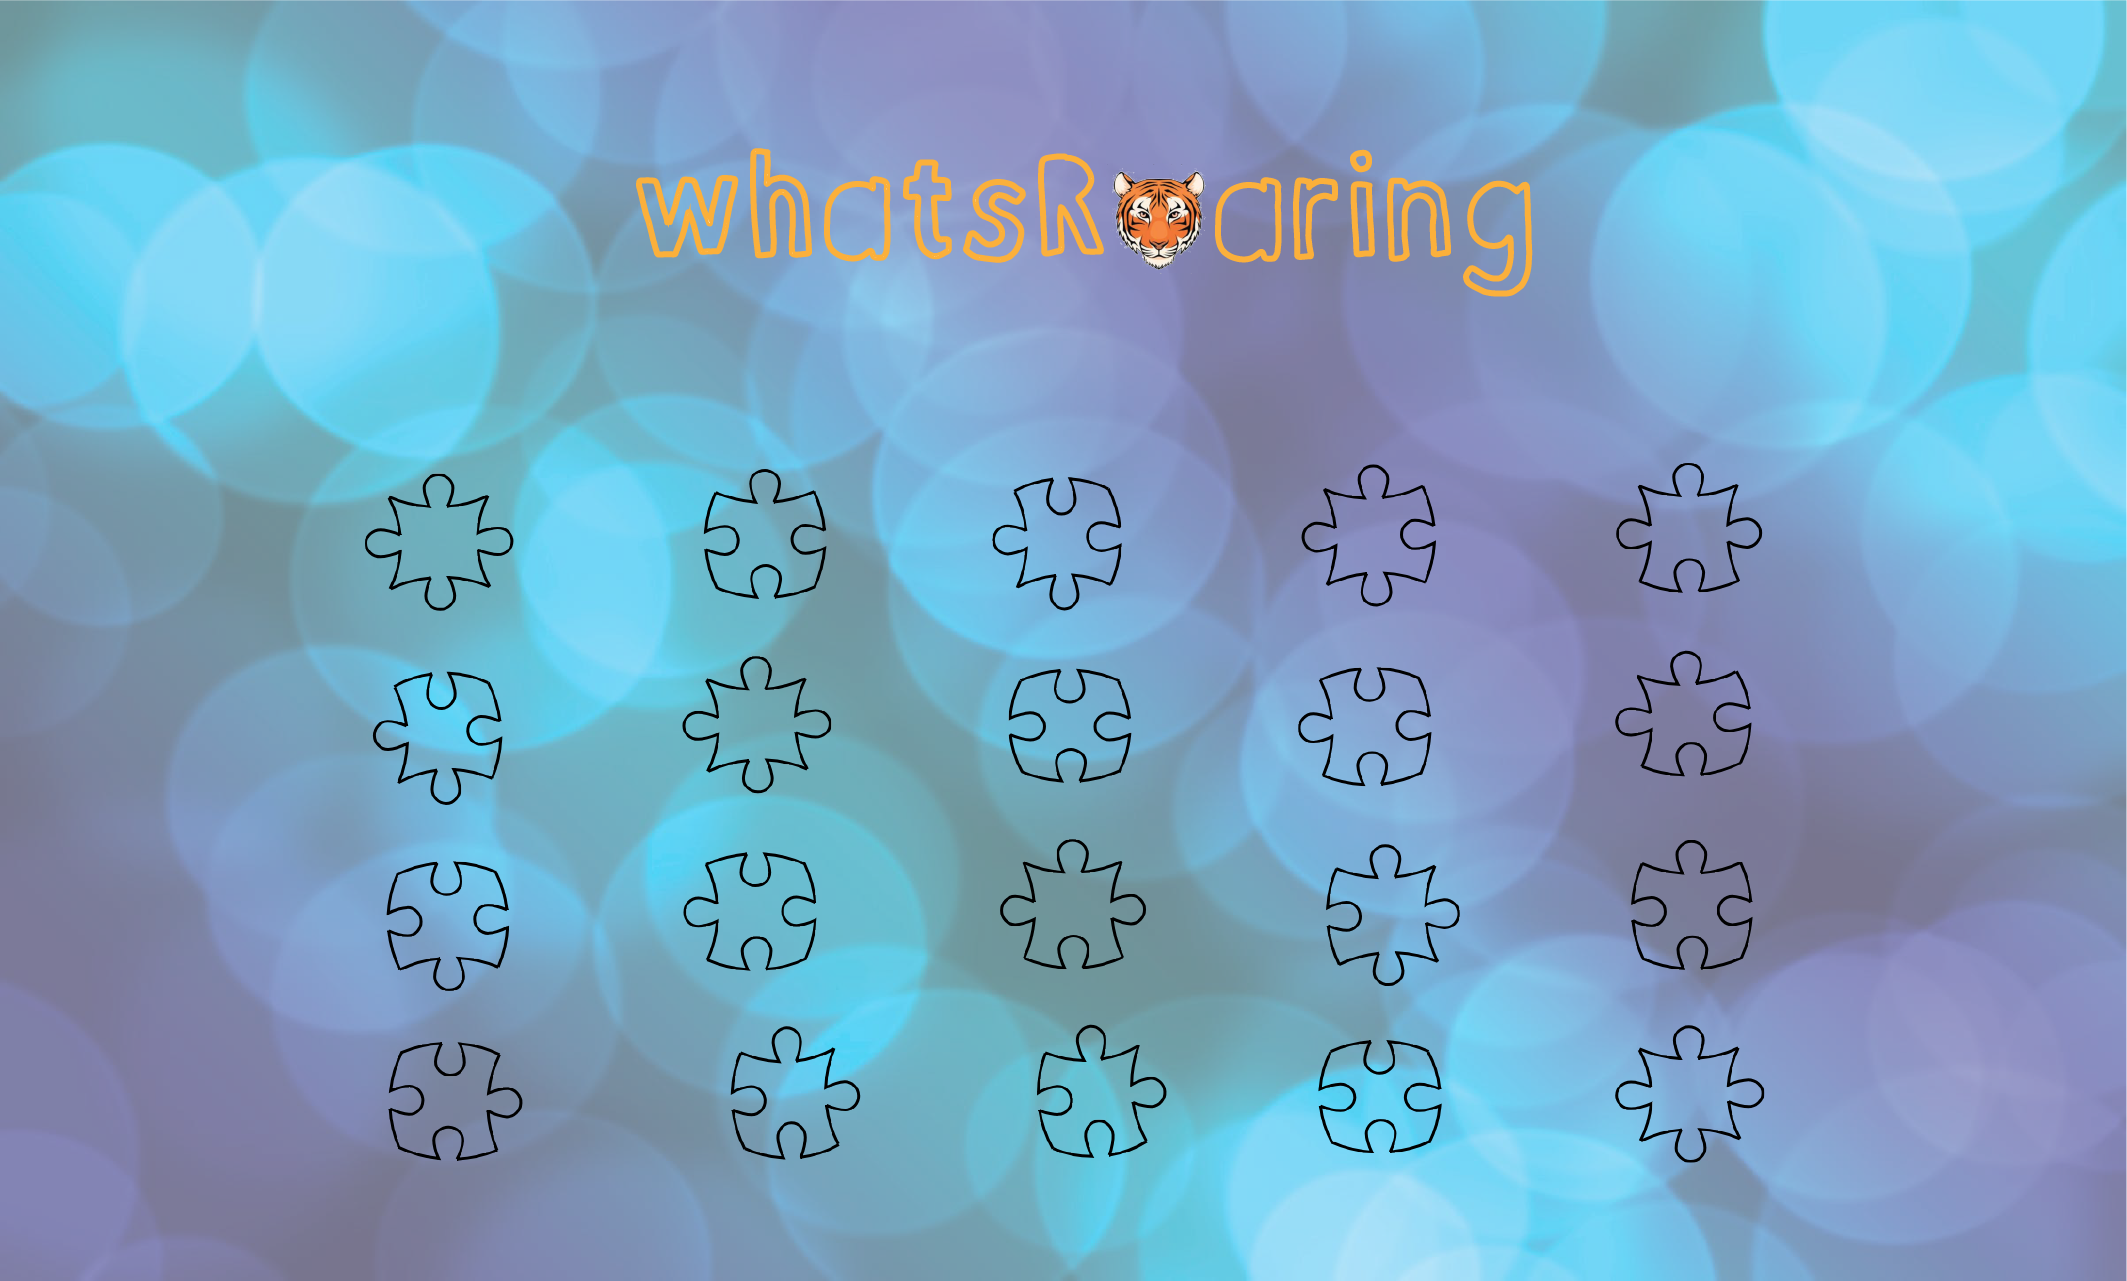
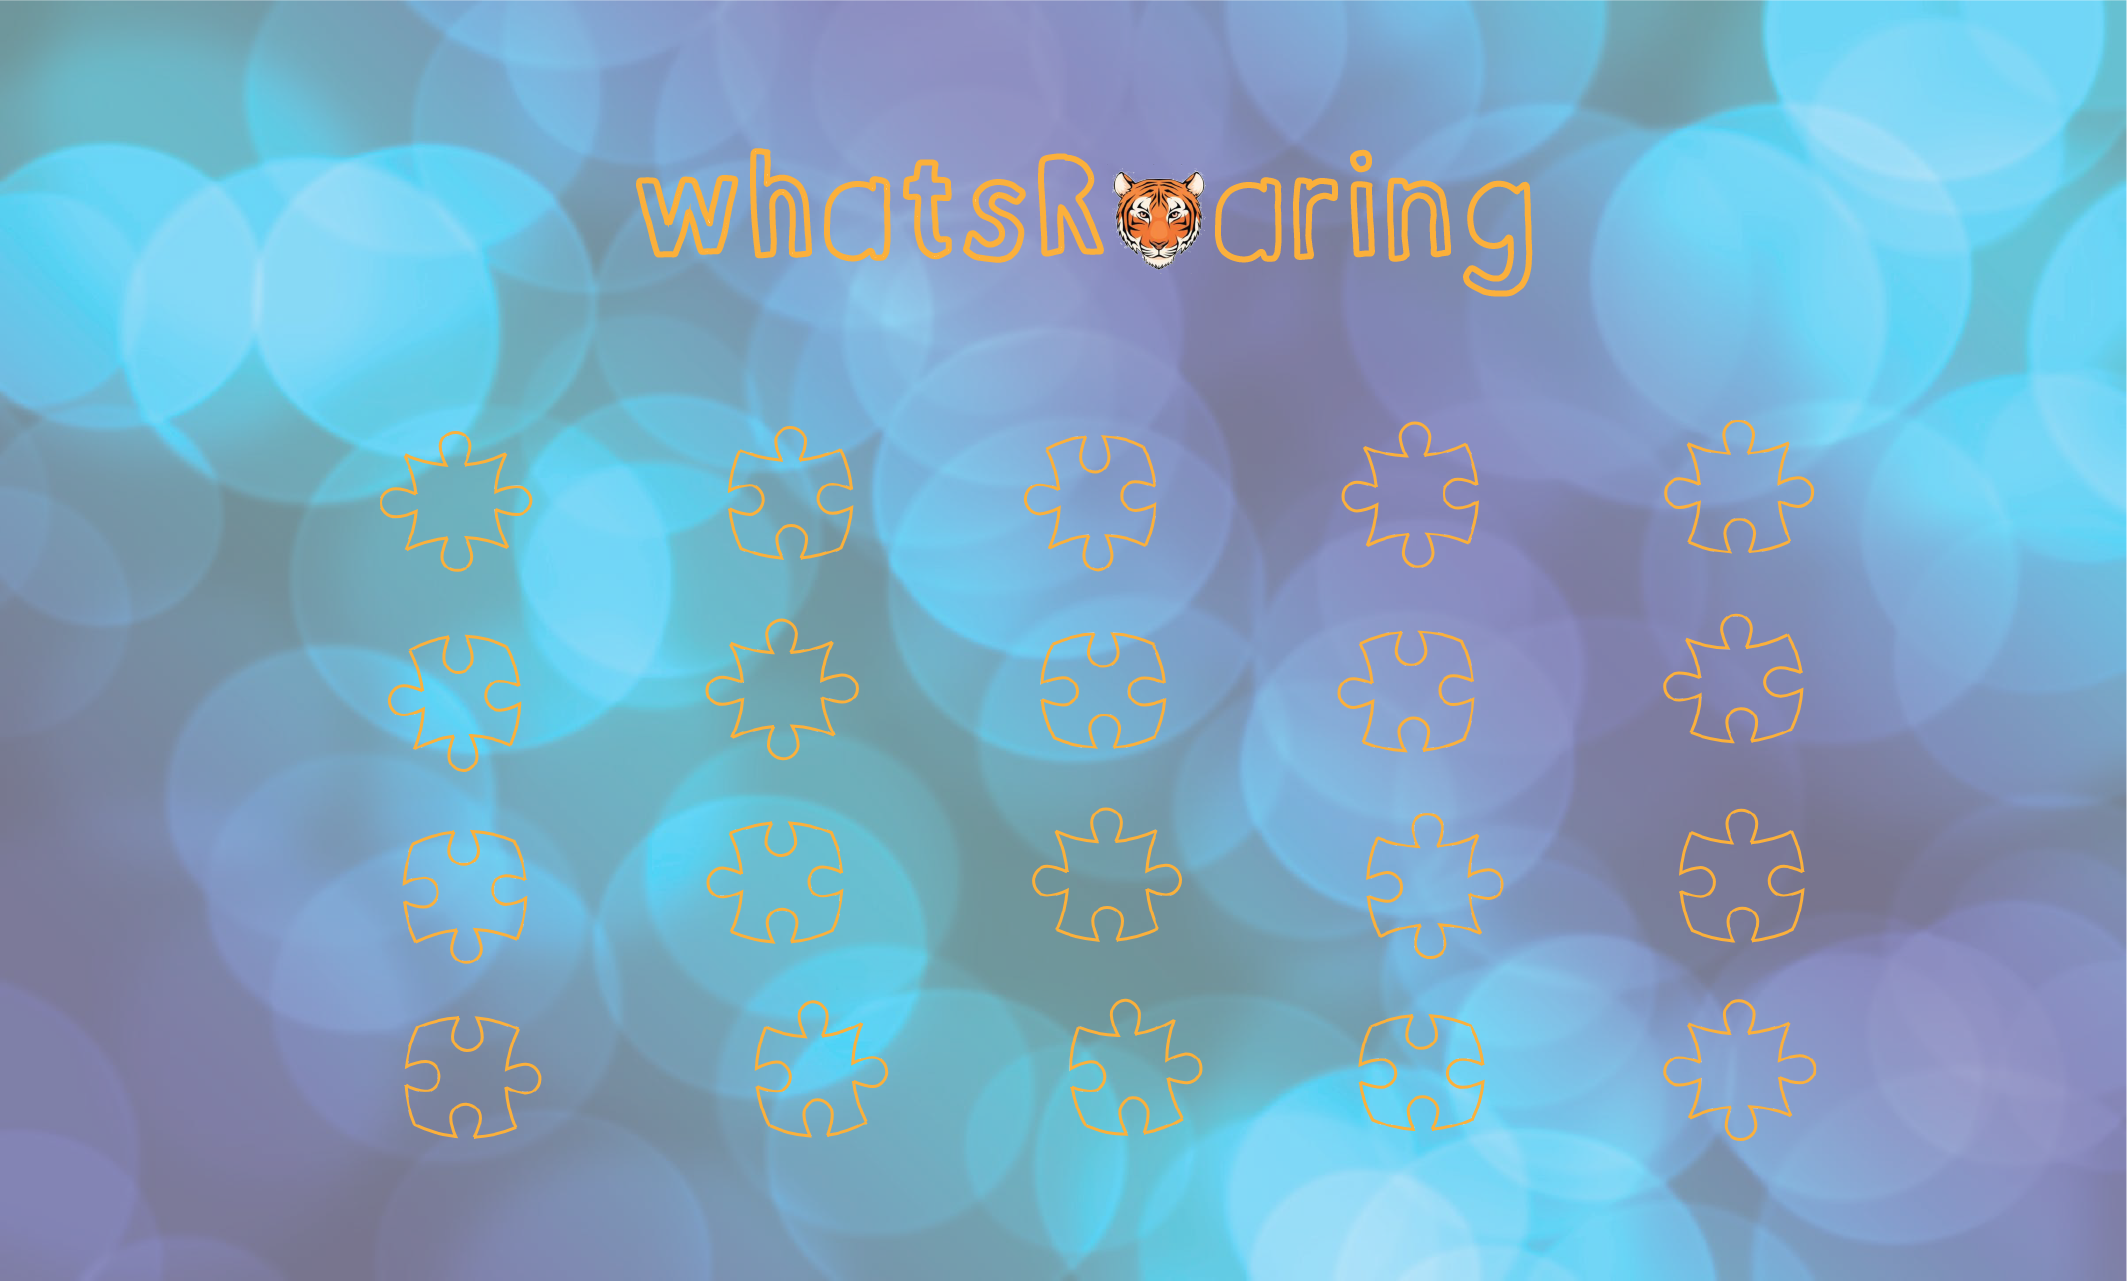
more trying to format

diff --git a/src/Pages/Components/LogInButton.css b/src/Pages/Components/LogInButton.css
@@ -6,16 +6,16 @@
     box-shadow:inset 0px 1px 3px 0px #91b8b3;
     background-color: #768d87;
     background:-webkit-gradient(linear, left top, left bottom, color-stop(0.05, #768d87), color-stop(1, #6c7c7c));
-    background:-moz-linear-gradient(top, #768d87 5%, #6c7c7c 100%);
-    background:-webkit-linear-gradient(top, #768d87 5%, #6c7c7c 100%);
-    background:-o-linear-gradient(top, #768d87 5%, #6c7c7c 100%);
-    background:-ms-linear-gradient(top, #768d87 5%, #6c7c7c 100%);
-    background:linear-gradient(to bottom, #768d87 5%, #6c7c7c 100%);
+    background:-moz-linear-gradient(top, #e0762f 5%, #ef9628 100%);
+    background:-webkit-linear-gradient(top, #e0762f 5%, #ef9628 100%);
+    background:-o-linear-gradient(top, #e0762f 5%, #ef9628 100%);
+    background:-ms-linear-gradient(top, #e0762f 5%, #ef9628 100%);
+    background:linear-gradient(to bottom, #e0762f 5%, #ef9628 100%);
     -moz-border-radius:5px;
     -webkit-border-radius:5px;
     border-radius:5px;
-    border:1px solid #566963;
-    color: orange;
+    border:1px solid #e0762f;
+    color: white;
     padding:11px 23px;
     text-align: center;
     text-decoration: none;

diff --git a/src/Pages/Components/GoToCalendarButton.js b/src/Pages/Components/GoToCalendarButton.js
@@ -5,23 +5,16 @@ export default class GoToCalendarButton extends Component {
 
     constructor() {
         super()
-        this.buttonClicked = false
-        this.url = 'http://whatsroaring.herokuapp.com/'
-        // this.url = 'http://127.0.0.1:8000/'
         this.handleClick = this.handleClick.bind(this)
     }
 
 
     handleClick() {
-        if (true) {
-            const url_calendar = this.url + "calendar"
-            window.location.href = url_calendar
-        }
-        this.buttonClicked = true
+      window.open("localhost:3000/calendar", "_blank")
     }
     render () {
         return (
-            <button class='GoToCalendarButton' onClick={this.handleClick}>
+            <button class='LogInButton' onClick={this.handleClick}>
                see events calendar
             </button>
         );

diff --git a/src/Pages/Landing.css b/src/Pages/Landing.css
@@ -1,0 +1,17 @@
+:root {
+  --blue: #3174ad;
+  --pink: #ad3173;
+  --orange: #fb8c00;
+  --dark-orange: #e0762f;
+  --light-orange: #ef9628;
+  --light-blue: #61dafb;
+}
+
+body {
+  width: 100%;
+  height: 400px;
+  background-image: url("homepage_background.png");
+  background-size: cover;
+  background-position: center center;
+  background-repeat: no-repeat;
+}

diff --git a/src/Pages/Calendar.js b/src/Pages/Calendar.js
@@ -270,8 +270,6 @@ class Calendar extends Component {
             list={this.state.organizations}
             toggleItem={this.toggleSelected}
           />
-          <LogInButton/>
-          {addEvent}
         </div>
         <div className='Calendar'>
           <BigCalendar

diff --git a/src/Pages/Components/AddEventButton.js b/src/Pages/Components/AddEventButton.js
@@ -15,7 +15,7 @@ export default class AddEventButton extends Component {
     render () {
         return (
             <button class='LogInButton' onClick={this.handleClick}>
-               Add Event
+               add event
             </button>
         );
     }

diff --git a/src/Pages/Landing.js b/src/Pages/Landing.js
@@ -23,6 +23,7 @@ import AddEventButton from './Components/AddEventButton'
 import Background from './homepage_background.png'
 
 import axios from 'axios'
+import './Landing.css'
 
 let imgUrl = 'homepage_background.png';
 

diff --git a/src/App.css b/src/App.css
@@ -50,7 +50,7 @@
   display: flex;
   flex-direction: column;
   align-items: center;
-  justify-content: center;
+  justify-content: space-around;
   font-size: calc(10px + 2vmin);
   color: white;
   text-align: center;
